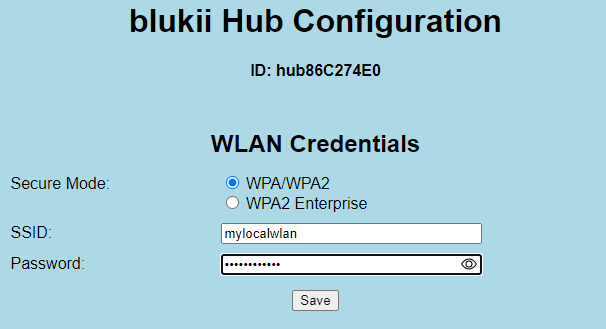
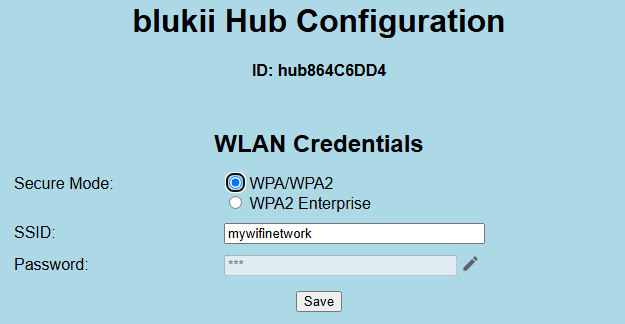
hub version 3.0.9.1 update; change log added

diff --git a/blukiiHub/changelog_en.md b/blukiiHub/changelog_en.md
@@ -1,0 +1,80 @@
+blukii Hub Change Log
+=====================
+
+
+Version 3.0.9.1
+------------------
+
+New features:
+
+* Improved password fields protection on configuration website
+
+* Configuration access protection of option **Show WLAN Credentials only**
+
+* Improve fast push interval request stability
+
+
+Version 3.0.8.4
+------------------
+
+New features:
+
+* Show local IP in blukii Manager
+
+* Caching of failed requests caused of: ensure all requests received by server
+
+
+Version 3.0.7.8
+------------------
+
+New features:
+
+* Payload JSON format 2.0 (size optimized)
+
+* Data processing option **Life Monitoring**: Push even if no packets found
+
+* New data type **Special Frame**
+
+* Configuration access visibility option **Show WLAN Credentials only** 
+
+* WLAN network selection in access point mode
+
+* blukii SmartBeacon configuration by server
+
+
+Version 3.0.4.4
+------------------
+
+New features:
+
+* Configuration access modes (timeout and password)
+
+* Add local IP to website and JSON payload
+
+* Support of Hardware 3000-002
+
+
+Version 3.0.3.8
+------------------
+First published version.
+
+Features:
+
+* Configuration via local website
+
+* WLAN support (WPA, WPA2, WPA2 Enterprise)
+
+* blukii Data Types selection
+
+* Push interval
+
+* Data transfer to server
+    * RESTful data requests
+    * Authentication selection
+    * Defined JSON payload format
+
+* Remote OTA Update via blukii Manager
+
+* Log settings
+
+* Support of Hardware 3000-001

diff --git a/blukiiHub/configuration_en.md b/blukiiHub/configuration_en.md
@@ -49,7 +49,7 @@ Settings for limiting the **Access** to this configuration website.
 * **Visibility**: 
   * **Show all Fields**: all configuration fields are visible.
 
-  * **Show WLAN Fields only**: only the section **WLAN Credentials** is visible, all other sections are hidden. If this option is set you can access all fields by calling the configuration website with URL parameter /admin.
+  * **Show WLAN Fields only**: only the section **WLAN Credentials** is visible, all other sections are hidden. If this option is set you can access all fields by calling the configuration website with URL parameter /admin.<br>If this option is combined with **Password after Timeout**, the all fields configuration page is password protected.
   
 ### Data Processing
 

diff --git a/blukiiHub/README.md b/blukiiHub/README.md
@@ -47,3 +47,8 @@ A detailed description of the JSON format is described in the [API Push Interfac
 If you want the blukii Hub mounted to a wall please read the [Wall Assembly manual](wallassembly_en.md).
 
 This step is optional.
+
+
+## Change log
+
+See blukii Hub [version change log](changelog_en.md).
